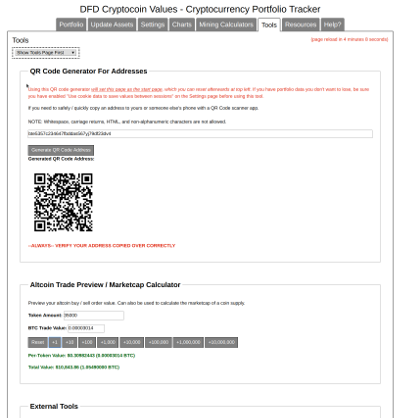
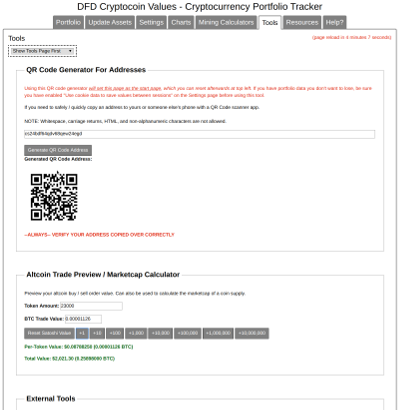
Tools page revision
Tools page revision

Changed region(s): [[0.0, 0.0, 1.0, 1.0], [0.06, 0.6439, 0.69, 0.9073], [0.06, 0.9659, 0.21, 0.9951]]

diff --git a/ui-templates/php/sections/tools.php b/ui-templates/php/sections/tools.php
@@ -40,7 +40,7 @@
     			<p><button class='force_button_style' onclick='
     				document.getElementById("sat_target").value = (0.00000001).toFixed(8);
     				satoshi_value("refresh");
-    				'>Reset</button> 
+    				'>Reset Satoshi Value</button> 
     			
     				<button class='force_button_style' onclick='satoshi_value(0.00000001);'>+1</button> 
     				
